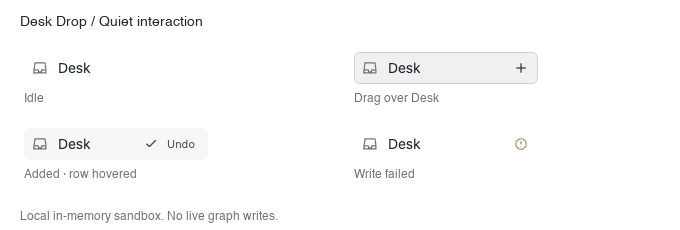
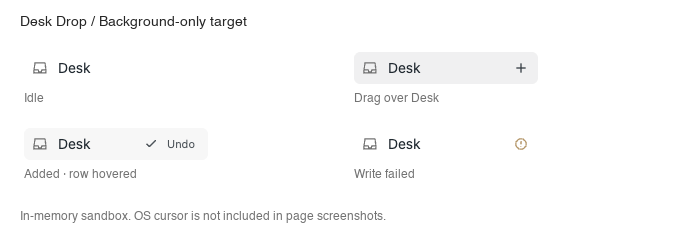
fix: prefer copy drag feedback and simplify Desk highlight

diff --git a/test/fixtures/browser-tests.js b/test/fixtures/browser-tests.js
@@ -27,11 +27,14 @@ function event(type, target, transfer, options = {}) {
   const e = new DragEvent(type, { bubbles: true, cancelable: true, dataTransfer: transfer, ...options });
   target.dispatchEvent(e); return e;
 }
-function begin(selector = '#bullet', options = {}) {
+function begin(selector = '#bullet', options = {}, effectAllowed = 'all') {
   const dt = new DataTransfer();
-  // Constructed DataTransfer objects default to none; model native block drags that allow all.
-  // Real pointer drags are checked separately without relaxing production input checks.
-  Object.defineProperty(dt, 'effectAllowed', { value: 'all' });
+  // Constructed DataTransfer objects keep both native effect setters at none.
+  // Model source permissions and record requested feedback at this browser boundary.
+  // Real pointer drags separately verify the browser's actual dropEffect.
+  Object.defineProperty(dt, 'effectAllowed', { value: effectAllowed });
+  let requestedEffect = 'none';
+  Object.defineProperty(dt, 'dropEffect', { get: () => requestedEffect, set: value => { requestedEffect = value; } });
   event('dragstart', document.querySelector(selector), dt, options);
   return dt;
 }
@@ -87,18 +90,20 @@ async function runTests() {
     assert(!document.querySelector('[data-rr-desk-drop-action="undo"]'), 'An existing entry must not receive an Undo action');
   });
   await check('Native drops outside Desk are not intercepted', async () => {
-    const dt = begin(); const target = document.querySelector('#ordinary-target');
+    const dt = begin(); const target = document.querySelector('#ordinary-target'); dt.dropEffect = 'move';
     const over = event('dragover', target, dt), drop = event('drop', target, dt);
+    assert(dt.dropEffect === 'move', 'Native cursor feedback outside Desk changed');
     await new Promise(requestAnimationFrame);
     assert(!over.defaultPrevented && !drop.defaultPrevented, 'Native drop was intercepted');
     assert(fake.desk()[':block/children'].length === 0, 'Unexpected write');
   });
   await check('All four modifier keys are left to existing handlers', async () => {
     for (const key of ['altKey', 'ctrlKey', 'metaKey', 'shiftKey']) {
-      const dt = begin('#bullet', { [key]: true });
+      const dt = begin('#bullet', { [key]: true }); dt.dropEffect = 'move';
       const over = event('dragover', document.querySelector('#desk'), dt, { [key]: true });
       const drop = event('drop', document.querySelector('#desk'), dt, { [key]: true });
       assert(!over.defaultPrevented && !drop.defaultPrevented, 'Modifier drag was intercepted: ' + key);
+      assert(dt.dropEffect === 'move', 'Modifier cursor feedback changed: ' + key);
     }
     await new Promise(requestAnimationFrame);
     assert(fake.desk()[':block/children'].length === 0, 'Modifier drag caused a write');
@@ -238,6 +243,60 @@ async function runTests() {
       const label = document.querySelector('#desk-label').getBoundingClientRect(), accessory = row.querySelector('.rr-desk-drop-accessory').getBoundingClientRect();
       assert(label.right + 8 < accessory.left, 'Compact feedback overlaps the label');
     } finally { if (oldStyle === null) sidebar.removeAttribute('style'); else sidebar.setAttribute('style', oldStyle); }
+  });
+  await check('Desk prefers additive cursor feedback without changing embeds or permitted operations', async () => {
+    for (const [allowed, expected] of [
+      ['all', 'copy'], ['uninitialized', 'copy'], ['copy', 'copy'], ['copyLink', 'copy'], ['copyMove', 'copy'],
+      ['link', 'link'], ['linkMove', 'link'], ['move', null], ['none', null], ['unknown', null],
+    ]) {
+      reset();
+      const row = document.querySelector('#desk'), before = structuredClone(fake.records.get('block0001'));
+      const dt = begin('#bullet', {}, allowed);
+      const enter = event('dragenter', row, dt), over = event('dragover', row, dt);
+      assert(enter.defaultPrevented === !!expected && over.defaultPrevented === !!expected, 'Unexpected accepted operation: ' + allowed);
+      assert(dt.dropEffect === (expected || 'none'), `Wrong cursor feedback for ${allowed}: ${dt.dropEffect}`);
+      const drop = event('drop', row, dt);
+      assert(drop.defaultPrevented === !!expected, 'Drop acceptance changed: ' + allowed);
+      if (expected) {
+        await waitFor(() => row.dataset.rrDeskDrop === 'added');
+        assert(fake.desk()[':block/children'].length === 1 && fake.desk()[':block/children'][0][':block/string'] === '{{embed-path: ((block0001)) closed}}', 'Cursor feedback changed embed content');
+      } else {
+        await new Promise(requestAnimationFrame);
+        assert(fake.desk()[':block/children'].length === 0 && !row.hasAttribute('data-rr-desk-drop'), 'Unsupported operation was handled');
+      }
+      assert(JSON.stringify(fake.records.get('block0001')) === JSON.stringify(before), 'Cursor feedback changed the source');
+    }
+  });
+  await check('The active Desk row uses a background and plus without an inset frame', async () => {
+    const row = document.querySelector('#desk'); event('dragover', row, begin());
+    const css = getComputedStyle(row);
+    assert(css.boxShadow === 'none', 'The active target still has an inset frame or shadow');
+    assert(row.textContent.trim() === 'Desk' && row.querySelector('.rr-desk-drop-accessory svg'), 'The minimal drop affordance changed');
+    const reduced = matchMedia('(prefers-reduced-motion:reduce)').matches;
+    assert(reduced ? css.transitionDuration === '0s' : css.transitionProperty === 'background-color' && css.transitionDuration === '0.1s', 'The background transition does not respect motion preferences');
+  });
+  await check('Desk tint survives a later important sidebar theme without recoloring other rows', async () => {
+    const row = document.querySelector('#desk'), other = row.nextElementSibling;
+    const theme = document.createElement('style');
+    // Match the public sidebar theme's important normal/hover specificity.
+    theme.textContent = `
+      .roam-body .roam-app .roam-sidebar-container .roam-sidebar-content :is(.log-button, .starred-pages-wrapper, .starred-pages .page, .sidebar-nav-item) { background:transparent !important; color:#69757f !important; box-shadow:none !important; transition:color 160ms ease, background-color 160ms ease; }
+      .roam-body .roam-app .roam-sidebar-container .roam-sidebar-content :is(.log-button, .starred-pages .page, .sidebar-nav-item):is(:hover, [data-fixture-hover]) { background:#f9f9f9 !important; color:#202b33 !important; }
+    `;
+    document.head.append(theme); row.setAttribute('data-fixture-hover', '');
+    await waitFor(() => [row, other].every(node => node.getAnimations().every(animation => animation.playState !== 'running')));
+    const idle = getComputedStyle(row).backgroundColor;
+    const otherPaint = [getComputedStyle(other).backgroundColor, getComputedStyle(other).color];
+    try {
+      event('dragover', row, begin());
+      try { await waitFor(() => getComputedStyle(row).backgroundColor !== idle); }
+      catch { throw new Error('The sidebar theme hid the Desk background feedback'); }
+      assert(getComputedStyle(row).boxShadow === 'none', 'Theme compatibility added a frame');
+      assert(JSON.stringify([getComputedStyle(other).backgroundColor, getComputedStyle(other).color]) === JSON.stringify(otherPaint), 'Other navigation rows changed');
+      window.dispatchEvent(new Event('dragend'));
+      await waitFor(() => getComputedStyle(row).backgroundColor === idle);
+      assert(!row.hasAttribute('data-rr-desk-drop'), 'Active Desk styling was not removed');
+    } finally { row.removeAttribute('data-fixture-hover'); theme.remove(); }
   });
   window.__deskDropTestResults = report;
   return report;

diff --git a/extension.js b/extension.js
@@ -245,12 +245,13 @@ function readDropPayload(transfer, origin, expectedSourceUid) {
 
 // src/ui.js
 var ROW = ".roam-app > .roam-sidebar-container .rm-left-sidebar__desk[data-rr-desk-drop]";
+var READY_ROW = '.roam-body .roam-app > .roam-sidebar-container .roam-sidebar-content div.log-button.rm-left-sidebar__desk[data-rr-desk-drop="ready"]';
 var CSS = `
 ${ROW} { position:relative; }
-${ROW}[data-rr-desk-drop="ready"] {
+${READY_ROW} {
   background-color:color-mix(in srgb,currentColor 7%,transparent) !important;
-  box-shadow:inset 0 0 0 1px color-mix(in srgb,currentColor 16%,transparent) !important;
   border-radius:6px;
+  transition:background-color 100ms ease;
 }
 .rr-desk-drop-accessory { position:absolute; right:10px; top:50%; transform:translateY(-50%); display:flex; align-items:center; gap:6px; height:20px; color:inherit; pointer-events:none; }
 .rr-desk-drop-icon { display:block; width:14px; height:14px; flex:none; opacity:.8; }
@@ -262,7 +263,7 @@ ${ROW} .rr-desk-drop-undo:hover { opacity:1; text-decoration:underline; text-und
 .rr-desk-drop-spinner { display:block; box-sizing:border-box; width:13px; height:13px; border:1.5px solid currentColor; border-right-color:transparent; border-radius:50%; opacity:.65; animation:rr-desk-drop-spin 800ms linear infinite; }
 .rr-desk-drop-live { position:absolute !important; top:0 !important; left:0 !important; width:1px !important; height:1px !important; padding:0 !important; margin:-1px !important; overflow:hidden !important; clip-path:inset(50%) !important; white-space:nowrap !important; border:0 !important; }
 @keyframes rr-desk-drop-spin { to { transform:rotate(360deg); } }
-@media (prefers-reduced-motion:reduce) { .rr-desk-drop-spinner { animation:none; } .rr-desk-drop-undo { transition:none; } }
+@media (prefers-reduced-motion:reduce) { ${READY_ROW} { transition:none; } .rr-desk-drop-spinner { animation:none; } .rr-desk-drop-undo { transition:none; } }
 `;
 function createDeskDropUI({ documentRef, windowRef, onActionError }) {
   let style, live, dragRow, feedback, painted, mounted = false;
@@ -448,8 +449,8 @@ function createDeskDropRuntime({ windowRef, documentRef = windowRef.document, ge
   }
   function transferEffect(transfer) {
     const allowed = transfer?.effectAllowed || "uninitialized";
-    if (["all", "uninitialized", "link", "copyLink", "linkMove"].includes(allowed)) return "link";
-    if (["copy", "copyMove"].includes(allowed)) return "copy";
+    if (["all", "uninitialized", "copy", "copyLink", "copyMove"].includes(allowed)) return "copy";
+    if (["link", "linkMove"].includes(allowed)) return "link";
     return null;
   }
   function currentSession() {

diff --git a/src/ui.js b/src/ui.js
@@ -1,10 +1,12 @@
 const ROW = '.roam-app > .roam-sidebar-container .rm-left-sidebar__desk[data-rr-desk-drop]';
+// Outrank important sidebar hover paint only while this exact Desk row accepts a drop.
+const READY_ROW = '.roam-body .roam-app > .roam-sidebar-container .roam-sidebar-content div.log-button.rm-left-sidebar__desk[data-rr-desk-drop="ready"]';
 const CSS = `
 ${ROW} { position:relative; }
-${ROW}[data-rr-desk-drop="ready"] {
+${READY_ROW} {
   background-color:color-mix(in srgb,currentColor 7%,transparent) !important;
-  box-shadow:inset 0 0 0 1px color-mix(in srgb,currentColor 16%,transparent) !important;
   border-radius:6px;
+  transition:background-color 100ms ease;
 }
 .rr-desk-drop-accessory { position:absolute; right:10px; top:50%; transform:translateY(-50%); display:flex; align-items:center; gap:6px; height:20px; color:inherit; pointer-events:none; }
 .rr-desk-drop-icon { display:block; width:14px; height:14px; flex:none; opacity:.8; }
@@ -16,7 +18,7 @@ ${ROW} .rr-desk-drop-undo:hover { opacity:1; text-decoration:underline; text-und
 .rr-desk-drop-spinner { display:block; box-sizing:border-box; width:13px; height:13px; border:1.5px solid currentColor; border-right-color:transparent; border-radius:50%; opacity:.65; animation:rr-desk-drop-spin 800ms linear infinite; }
 .rr-desk-drop-live { position:absolute !important; top:0 !important; left:0 !important; width:1px !important; height:1px !important; padding:0 !important; margin:-1px !important; overflow:hidden !important; clip-path:inset(50%) !important; white-space:nowrap !important; border:0 !important; }
 @keyframes rr-desk-drop-spin { to { transform:rotate(360deg); } }
-@media (prefers-reduced-motion:reduce) { .rr-desk-drop-spinner { animation:none; } .rr-desk-drop-undo { transition:none; } }
+@media (prefers-reduced-motion:reduce) { ${READY_ROW} { transition:none; } .rr-desk-drop-spinner { animation:none; } .rr-desk-drop-undo { transition:none; } }
 `;
 
 export function createDeskDropUI({ documentRef, windowRef, onActionError }) {

diff --git a/src/runtime.js b/src/runtime.js
@@ -20,8 +20,10 @@ export function createDeskDropRuntime({ windowRef, documentRef = windowRef.docum
   function resetDrag() { session = null; ui.clearHighlight(); }
   function transferEffect(transfer) {
     const allowed = transfer?.effectAllowed || 'uninitialized';
-    if (['all', 'uninitialized', 'link', 'copyLink', 'linkMove'].includes(allowed)) return 'link';
-    if (['copy', 'copyMove'].includes(allowed)) return 'copy';
+    // Prefer additive cursor feedback, not the macOS link/alias arrow. The
+    // capture engine still creates a live embed and never copies source text.
+    if (['all', 'uninitialized', 'copy', 'copyLink', 'copyMove'].includes(allowed)) return 'copy';
+    if (['link', 'linkMove'].includes(allowed)) return 'link';
     return null;
   }
   function currentSession() {

diff --git a/docs/verification.md b/docs/verification.md
@@ -1,52 +1,58 @@
-# 0.1.2 quiet interaction preview verification
+# 0.1.3 cursor and background verification
 
-Date: October 26, 2026. Validated locally for the existing [Depot Draft PR #1511](https://github.com/Roam-Research/roam-depot/pull/1511). A source push or PR preview does not replace live test-graph validation.
+Date: October 26, 2026. Validated locally for the existing [Depot Draft PR #1511](https://github.com/Roam-Research/roam-depot/pull/1511). No production installation or live-graph write test is included.
 
 ## Completed checks
 
 | Check | Result | Evidence |
 |---|---|---|
-| Node automated tests | 38 passing | `npm test`: capture, source preservation, deduplication, Undo guards, graph changes, cancellation, rebinding, ambiguous writes, payload validation, and English-copy checks |
-| Browser integration: source | 18 passing | Local `artifacts/quiet-browser-tests.json` |
-| Browser integration: bundle | The same 18 checks passing in a focused document | Bundle results in `artifacts/quiet-browser-tests.json` |
-| Browser-driven pointer drag | Trusted dragstart/drop events with dropEffect link | Local `artifacts/quiet-native-drag.json` |
-| Native click on inline Undo | Removes only the new entry, preserves source and children, and does not trigger Desk navigation | Pointer-drag record; focused-button regression in the browser suite |
-| Quiet feedback | No bottom-right panel; no instructional text during dragging; original label, icon, and row geometry preserved | Browser suite and actual sandbox screenshots |
-| Compact dark sidebar | Label and action do not overlap in a 144px Desk row; native foreground preserved | `artifacts/quiet-presentation-checks.json` |
-| Reduced motion | Spinner remains visible without animation | Presentation checks through browser media emulation |
-| Cleanup and stale work | Pending and completed feedback cannot return after a graph switch or unload; original attributes restored | Browser suite |
-| Read-only Roam compatibility | Earlier method and metadata inspection passed; no live write test | Local `artifacts/read-only-compatibility.json` |
+| Node automated tests | 38 passing | `npm test`: capture, source preservation, deduplication, Undo guards, context changes, cancellation, ambiguous writes, payload validation, and English-copy checks |
+| Browser integration: source | 21 passing | Local `artifacts/cursor-browser-tests.json` |
+| Browser integration: bundle | The same 21 checks passing in a focused document | Bundle results in the same report |
+| Reduced-motion suite | All 21 bundle checks passing with reduced motion enabled | `artifacts/cursor-reduced-motion-tests.json` |
+| Trusted pointer drag | Actual drop and drag-end events report `dropEffect: copy` for an ordinary uninitialized source | `artifacts/cursor-native-drag.json` |
+| Data and inline Undo | A native embed is created; source and children remain unchanged; a real mouse click on Undo removes only the new entry without navigation | Native pointer report |
+| Cursor permissions | Copy preferred when permitted; link retained only when copy is unavailable; move-only/none/unknown inputs rejected | Browser permission matrix; other-target and modifier checks |
+| Background-only feedback | No target shadow; only Desk and the plus are visible during dragging; transition is 100ms | `artifacts/cursor-presentation.json` and screenshots |
+| Sidebar-theme compatibility | Target tint survives later important normal/hover rules; other rows stay unchanged; native hover paint returns afterward | Browser theme-precedence regression |
+| Reduced-motion background | Target transition becomes 0s | Presentation report and full reduced-motion suite |
+| Core data code | Identical to published 0.1.2 | Diff of `desk-capture.js`, `roam-adapter.js`, `drop-payload.js`, and `extension-entry.js` against `5315bb0` |
 | Build and static checks | Passing; no added network calls or source-block move/update calls | `npm run check` |
-| Core data code | Identical to the published 0.1.1 source | Diff of `desk-capture.js`, `roam-adapter.js`, `drop-payload.js`, and `extension-entry.js` against `cf91526` |
-| Reproducible build | Two builds produce the same hash | SHA256 below |
+| Reproducible build | Repeated builds produce the same hash | SHA256 below |
 
 `extension.js` SHA256:
 
 ```text
[2 lines of base64/hex data omitted]
 ```
 
-## Focus regression caught during verification
+## Regressions reproduced before the fixes
 
-A real mouse click on Undo focuses its button before activation. Removing that focused button triggered a captured blur event, which called drag cleanup and re-entered the renderer. The second removal raised `NotFoundError` before Undo could run. A synthetic `.click()` in an unfocused document had missed the problem.
+- **Cursor:** an ordinary source allowing all operations requested `link`, which selects macOS link/alias feedback. The regression now observes a request for `copy`, while verifying that the resulting entry is still exactly a native embed and the original block is unchanged. Red-run evidence: `artifacts/cursor-red.json`.
+- **Decoration:** the active row had an inset frame rather than only a background. Red-run evidence: `artifacts/background-red.json`.
+- **Theme precedence:** important sidebar hover rules could override the target tint. The regression uses equivalent public-theme specificity, including a later stylesheet and hover transition. The fix qualifies only the active Desk row; it does not change the theme or other navigation rows.
 
-The minimal fix makes highlight cleanup a no-op when no drag highlight exists, so unrelated focus changes cannot repaint the feedback. The browser suite now requires a focused document and explicitly focuses Undo before activation. Its failure was reproduced before the fix, and both source and bundle checks plus a real mouse click passed afterward. Local red-run evidence is `artifacts/quiet-focused-undo-red.json`.
+Constructed DataTransfer objects in the test browser keep their native effect fields at `none`. Synthetic tests model permissions and record the requested drop effect at that browser boundary. Trusted pointer tests separately verify the browser's actual `copy` effect on drop and drag end. The OS still owns cursor artwork; page screenshots do not capture it. Link-only sources may still use the platform's link cursor.
+
+## Retained focused-Undo regression
+
+The 0.1.2 mouse test exposed a focused-button removal that triggered blur and re-entered highlight cleanup. Idle cleanup is now a no-op, preventing a second removal before Undo runs. Tests still require a focused document and explicitly focus Undo before activation. The earlier red evidence remains in `artifacts/quiet-focused-undo-red.json`.
 
 ## Scope and evidence
 
-The build reused an existing esbuild 0.28.1 installation; no dependencies were installed. Browser tests use a separate localhost in-memory graph. All simulated create/delete operations modify JavaScript memory only. The earlier read-only compatibility check did not load the extension into the live Roam page. This interaction revision did not perform live-graph writes, production installation, or a Marketplace release.
+The build reused the existing esbuild 0.28.1 installation; no dependencies were installed. Browser create/delete operations affect an isolated localhost in-memory SDK only. No live-graph writes, production installation, or Marketplace release were performed for this revision. Earlier read-only Roam API and metadata inspection remains in local `artifacts/read-only-compatibility.json`.
 
-`artifacts/` holds local evidence and is excluded from Git. Public-source assets and fixtures contain sandbox data only. The four-state preview in `assets/desk-drop-interaction.png` uses actual sandbox screenshot crops, not a claim of live Roam rendering.
+`artifacts/` is excluded from Git. Images in `assets/` contain only sandbox data. The user-provided diagnostic screenshot is not included in the repository. The four-state preview uses actual sandbox screenshot crops, not a claim of live Roam or OS-cursor rendering.
 
 ## Remaining release gates
 
+- Confirm cursor appearance and target tint in the actual Roam Electron/web client and installed theme after an authorized test installation.
 - Compare plugin writes with native Add to Desk in a separate, authorized test graph, including rendering and native removal.
-- Check the row feedback in actual Roam web and Electron clients and the installed theme.
-- Test alongside the installed Drag References extension; current tests cover modifier pass-through, not full coexistence.
+- Test coexistence with the installed Drag References extension; existing tests cover modifier pass-through, not full coexistence.
 - Test live read-only graphs, interrupted synchronization, and concurrent devices.
 
-Keep the Depot PR in Draft. A source push or PR preview is not a Marketplace release. The extension has not been installed in a production graph by this revision.
+Keep the Depot PR in Draft. A source push or PR preview is not a Marketplace release.
 
 ## Safety limits
 
-The prototype accepts one top-level block from an ordinary outline in the same window and graph. Public APIs provide neither atomic conditional deletion nor a global unique-reference constraint. Preflight checks and per-instance queueing do not provide distributed atomicity. Dismissing feedback or unloading cannot cancel a write already submitted to Roam.
+Only one top-level block from an ordinary outline in the same window and graph is supported. Public APIs provide neither atomic conditional deletion nor a global unique-reference constraint. Per-instance queueing does not provide distributed atomicity. Dismissing feedback or unloading cannot cancel a write already submitted to Roam.

diff --git a/README.md b/README.md
@@ -7,7 +7,7 @@ Drag a block onto the existing **Desk** item in Roam's left sidebar to add a nat
 ## How it works
 
 1. Drag a block's bullet without holding a modifier key.
-2. Hover over the Desk row. Its original label stays visible; a faint background and small plus confirm the drop target.
+2. Hover over the Desk row. Its original label stays visible; only a faint background and small plus confirm the drop target, without a frame or shadow.
 3. Drop to add this native-format entry at the top of your bound Desk page:
 
 ```text
@@ -20,13 +20,15 @@ Progress and failures also stay at Desk. A warning retains the full error in its
 
 See the [quiet interaction design](https://github.com/404KSG/roam-desk-drop/blob/main/docs/quiet-interaction.md) for the Linear references, visual contract, and safety boundaries.
 
-The entry is an embed, not a separate copy. Repeated drops do not add duplicates or reorder existing entries. Entries remain native Roam content after the plugin is uninstalled.
+Ordinary drags prefer the browser's non-moving `copy` feedback rather than its `link`/alias cursor. This changes cursor feedback, not the capture operation: **the entry is still a live embed, not a copy of the source text**. Source permissions remain authoritative; link-only drags retain link feedback, and move-only drags are not handled. The OS controls the exact cursor artwork.
+
+Repeated drops do not add duplicates or reorder existing entries. Entries remain native Roam content after the plugin is uninstalled.
 
 ## Sandbox demonstration
 
-![Desk Drop: idle, drag target, added, and error states](https://raw.githubusercontent.com/404KSG/roam-desk-drop/main/assets/desk-drop-interaction.png?v=0.1.2)
+![Desk Drop: idle, drag target, added, and error states](https://raw.githubusercontent.com/404KSG/roam-desk-drop/main/assets/desk-drop-interaction.png?v=0.1.3)
 
-These states come from the local test harness, **not a live Roam graph**. The [full sandbox screenshot](https://raw.githubusercontent.com/404KSG/roam-desk-drop/main/assets/desk-drop-sandbox.png?v=0.1.2) shows the unchanged source block and the native embed string received by the simulated Desk.
+These states come from the local test harness, **not a live Roam graph**. The [full sandbox screenshot](https://raw.githubusercontent.com/404KSG/roam-desk-drop/main/assets/desk-drop-sandbox.png?v=0.1.3) shows the unchanged source block and the native embed string received by the simulated Desk.
 
 ## Prototype scope
 
@@ -50,8 +52,8 @@ These states come from the local test harness, **not a live Roam graph**. The [f
 ## Validation
 
 - **38 automated tests** pass for capture, source preservation, deduplication, undo guards, graph changes, cancellation, rebinding, ambiguous write outcomes, payload validation, and untranslated-copy detection.
-- **18 browser integration checks** pass against both the source entry point and the compiled bundle in a focused in-memory fixture. They include geometry, local feedback, pending writes, focused Undo, stale results, errors, attribute restoration, and compact/dark sidebars.
-- A browser-driven pointer drag produced trusted `dragstart` and `drop` events; the fixture received an embed, and a real mouse click on inline Undo removed only the new entry. Reduced-motion and compact dark-sidebar presentation checks also pass.
+- **21 browser integration checks** pass against both the source entry point and the compiled bundle in a focused in-memory fixture. They include geometry, local feedback, pending writes, focused Undo, stale results, errors, attribute restoration, compact/dark sidebars, allowed cursor operations, and high-specificity sidebar themes.
+- A browser-driven pointer drag produced trusted events with `dropEffect: copy` at drop and drag end. The fixture received an embed, and a real mouse click on inline Undo removed only the new entry. The target has no shadow, and reduced-motion preferences disable the background transition.
 - Read-only inspection of a live Roam client confirmed the required methods and metadata shapes. **No live-graph create/delete test has been performed.**
 
 See [verification details](https://github.com/404KSG/roam-desk-drop/blob/main/docs/verification.md) for the remaining checks. Event-level modifier tests are not a substitute for testing alongside the actual Drag References extension.

diff --git a/docs/quiet-interaction.md b/docs/quiet-interaction.md
@@ -29,10 +29,10 @@ Error      [native icon] Desk           warning
 ```
 
 - Preserve native icon, label, foreground, font, row height, and adjacent navigation geometry. Do not swap the word Desk for instructions.
-- Use a 6px radius only for the active drop target, a 7% foreground-derived fill, and a 16% foreground-derived inset hairline. These inherit the host theme rather than adding a white overlay or a saturated accent.
+- Use a 6px radius and a 7% foreground-derived fill for the active drop target, without an inset frame or shadow. The narrowly scoped active-Desk selector outranks important sidebar hover paint so the tint remains visible; other rows keep their original styles.
 - Use 14px line icons with a 1.5px stroke. Use the native font for the 11px Undo action. This is a navigation detail, not an opportunity to introduce a second typeface or a new application theme.
 - The neutral reference palette is ink `#262626`, muted `#737373`, line `#ececee`, and surface `#f6f6f7`. Actual row colors come from the host. Warning uses `#a87936`, overridable through `--rr-desk-drop-warning`.
-- No large shadows, extra cards, global borders, label motion, or bottom-right panel. The only fade is a short Undo reveal. Reduced-motion preferences disable that transition and the spinner animation.
+- No shadows, extra cards, global borders, label motion, or bottom-right panel. The target background transitions in 100ms; leaving restores the host's normal paint and transition. Reduced-motion preferences disable this transition, the Undo reveal transition, and the spinner animation.
 
 ## Behavior and accessibility
 
@@ -43,6 +43,19 @@ Error      [native icon] Desk           warning
 - Escape dismisses feedback. It does not cancel an already submitted SDK write. A graph change, newer accepted operation, or unload prevents stale completions from restoring feedback.
 - Only the latest accepted drop owns the visible Undo. Its receipt is still validated by the unchanged capture engine.
 - No source updates, moves, clipboard changes, automatic navigation, analytics, new dependencies, or production-graph writes are introduced by this revision.
+
+## Native cursor feedback
+
+The reported black curved arrow matches macOS link/alias drag feedback. The previous runtime preferred `dropEffect: link` even when the source permitted an additive copy operation. This is platform cursor feedback, not a Desk-row SVG or a block-reordering marker.
+
+Prefer `copy` for sources permitting copy, including ordinary uninitialized/all drags. Retain `link` only for link-capable sources that do not permit copy. Reject move-only/none/unknown operations; never request `move` merely to change the cursor. Keep other drop targets and modifier gestures unchanged.
+
+This preference does not copy the source text. The unchanged capture engine still creates only `{{embed-path: ((uid)) closed}}`. The browser and OS choose the cursor artwork; the extension does not hide the pointer or globally suppress native drag indicators.
+
+- [MDN: DataTransfer.dropEffect](https://developer.mozilla.org/en-US/docs/Web/API/DataTransfer/dropEffect)
+- [Apple: Pointing devices](https://developer.apple.com/design/human-interface-guidelines/pointing-devices)
+
+Constructed DataTransfer objects do not accept native effect assignments in the test browser. Synthetic integration tests therefore model source permissions and record requested feedback at that boundary; trusted pointer tests separately verify the browser's real drop and drag-end effects.
 
 ## Validation boundary
 

diff --git a/CHANGELOG.md b/CHANGELOG.md
@@ -1,5 +1,13 @@
 # Changelog
 
+## 0.1.3 - Copy feedback and background-only draft update
+
+- Prefer native `copy` feedback for ordinary accepted drags instead of the macOS link/alias cursor. The data operation remains a native embed, not a source-text copy or move.
+- Respect source permissions: retain `link` only when copying is unavailable, reject move-only drags, and leave other targets and modifier gestures unchanged.
+- Remove the target's inset frame. Keep the small plus and a 100ms background-only transition, disabled for reduced motion.
+- Scope active Desk paint strongly enough to survive important sidebar theme hover rules without changing other navigation rows.
+- Add regression coverage for cursor permissions, unchanged native gestures, background-only decoration, and theme precedence.
+
 ## 0.1.2 - Quiet interaction draft update
 
 - Remove the bottom-right notification panel and the full-row instructional overlay.
